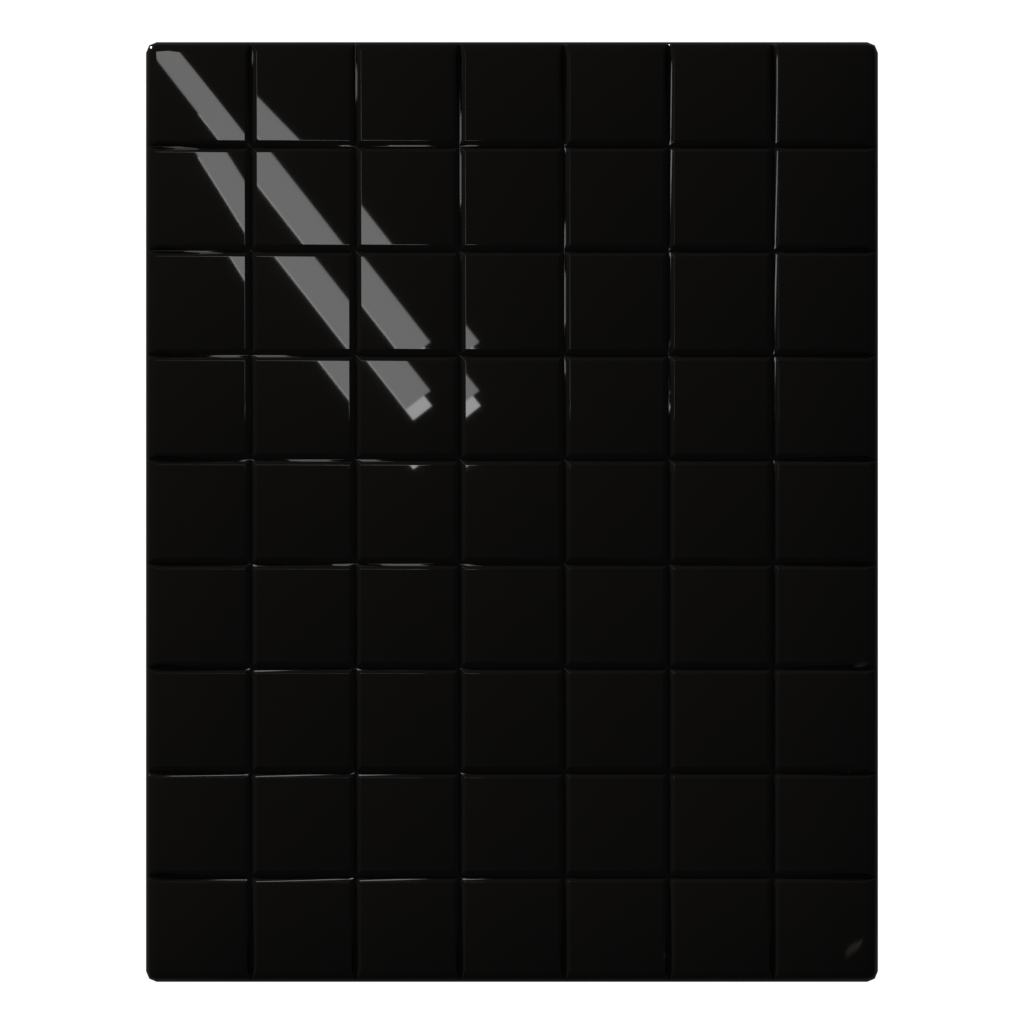
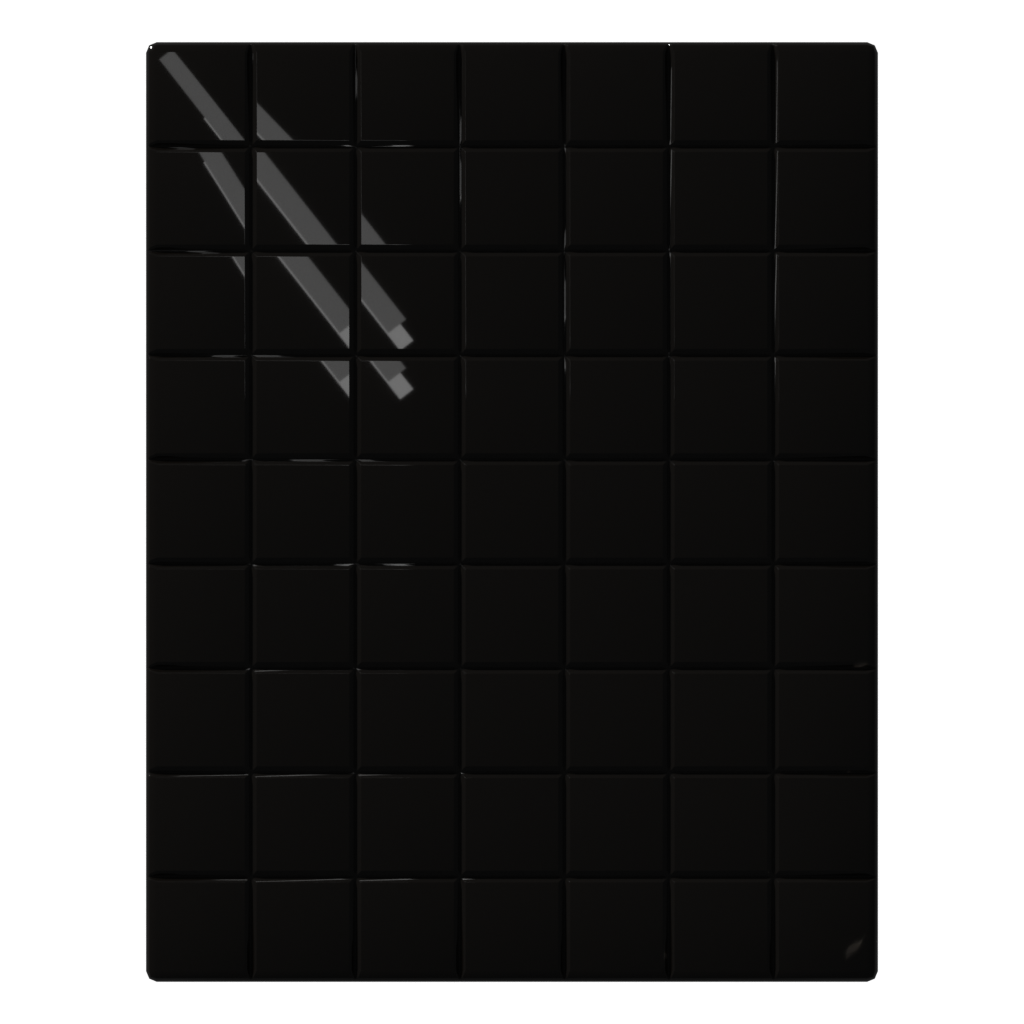
Cut the board's streaks back to a reflection
On screen they read as light shafts falling across the board rather
than a reflection in the glass - the loudest thing on the surface,
against art they sit behind. Energy down to about a quarter and the
strips narrowed.

Changed region(s): [[0.1562, 0.0312, 0.4688, 0.4062]]

diff --git a/src/game/objects/itemSprites.ts b/src/game/objects/itemSprites.ts
@@ -135,7 +135,7 @@ export function itemSpriteKey(typeId: string, tier: number): string {
  * A version in the query string makes the URL new, so every client refetches
  * once and then caches again normally.
  */
-export const ITEM_ART_VERSION = 48;
+export const ITEM_ART_VERSION = 49;
 
 /** Where the renderer writes it, relative to `public/`. */
 export function itemSpritePath(typeId: string, tier: number): string {

diff --git a/tools/blender/render_items.py b/tools/blender/render_items.py
@@ -3293,8 +3293,8 @@ def render_board():
     # all. These are close and narrow, so each one lands as a band
     # rather than covering the sheet.
     for index, (size, size_y, energy, spot) in enumerate((
-        (5.5, 0.55, 16.0, (-2.5, 3.4, 2.2)),
-        (3.8, 0.42, 20.0, (-1.9, 2.5, 2.2)),
+        (4.6, 0.40, 4.5, (-2.6, 3.5, 2.2)),
+        (3.2, 0.30, 5.5, (-2.0, 2.6, 2.2)),
     )):
         name = "BoardStreak%d" % index
         data = bpy.data.lights.get(name) or bpy.data.lights.new(name, type='AREA')
